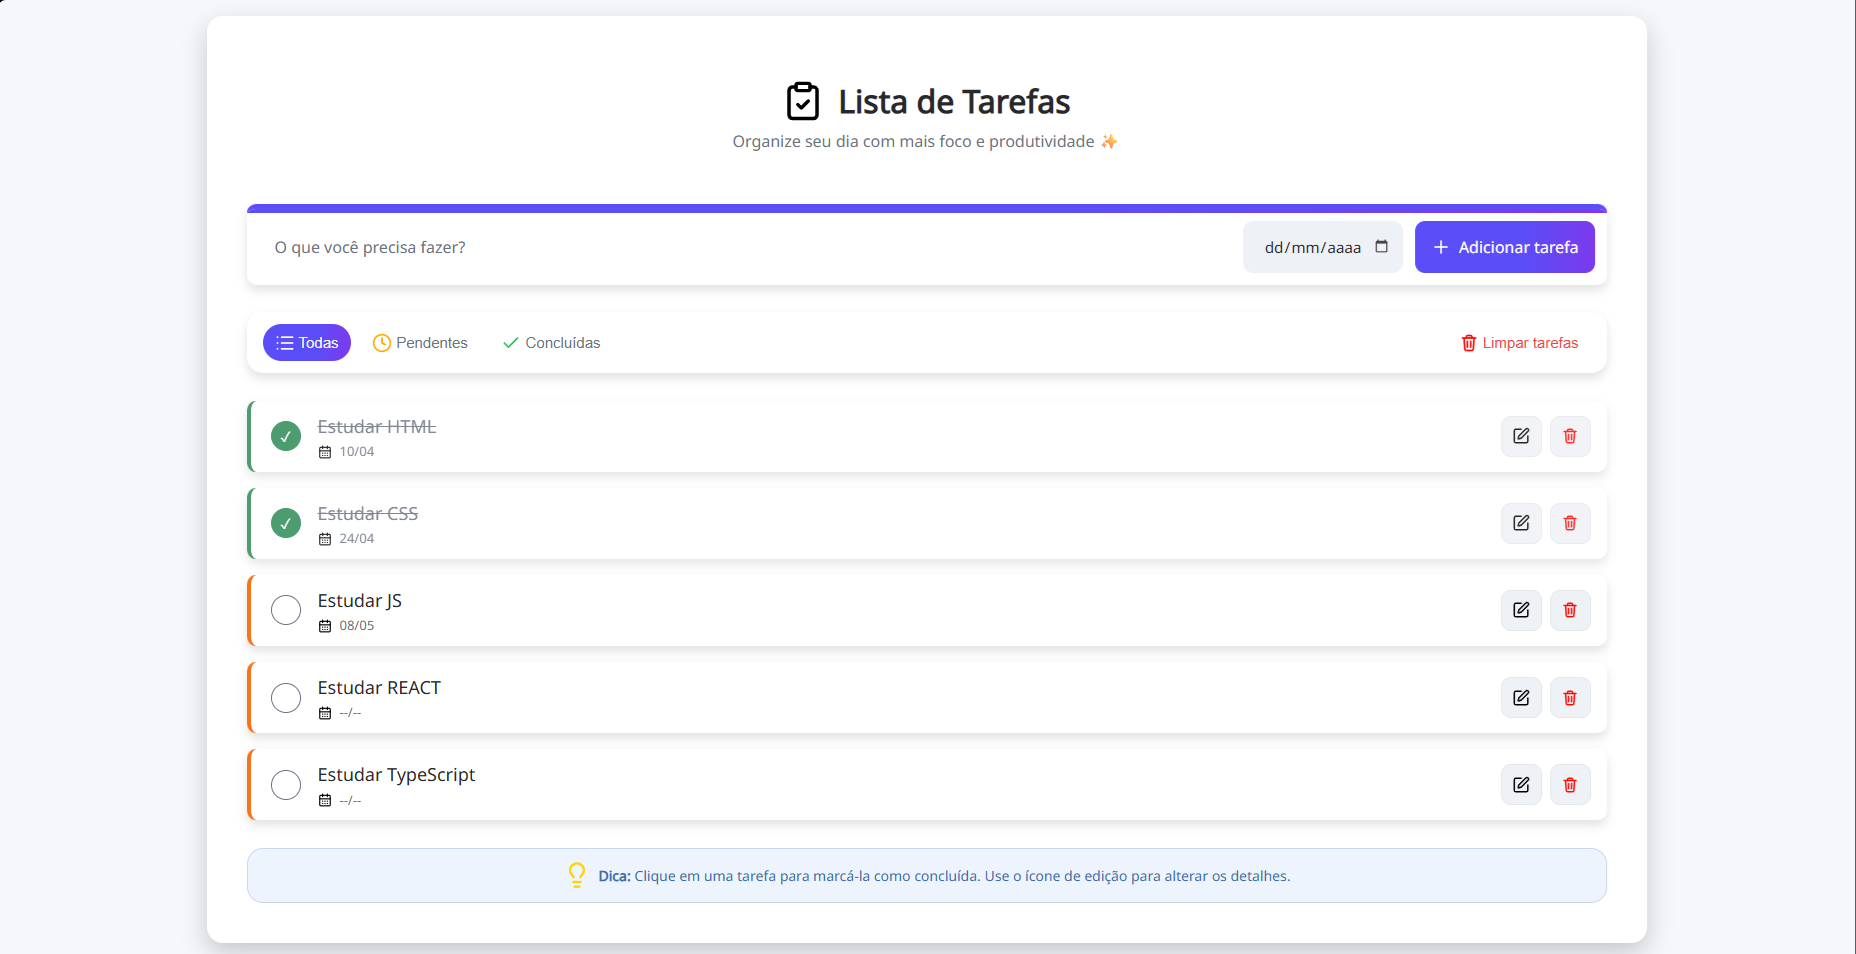
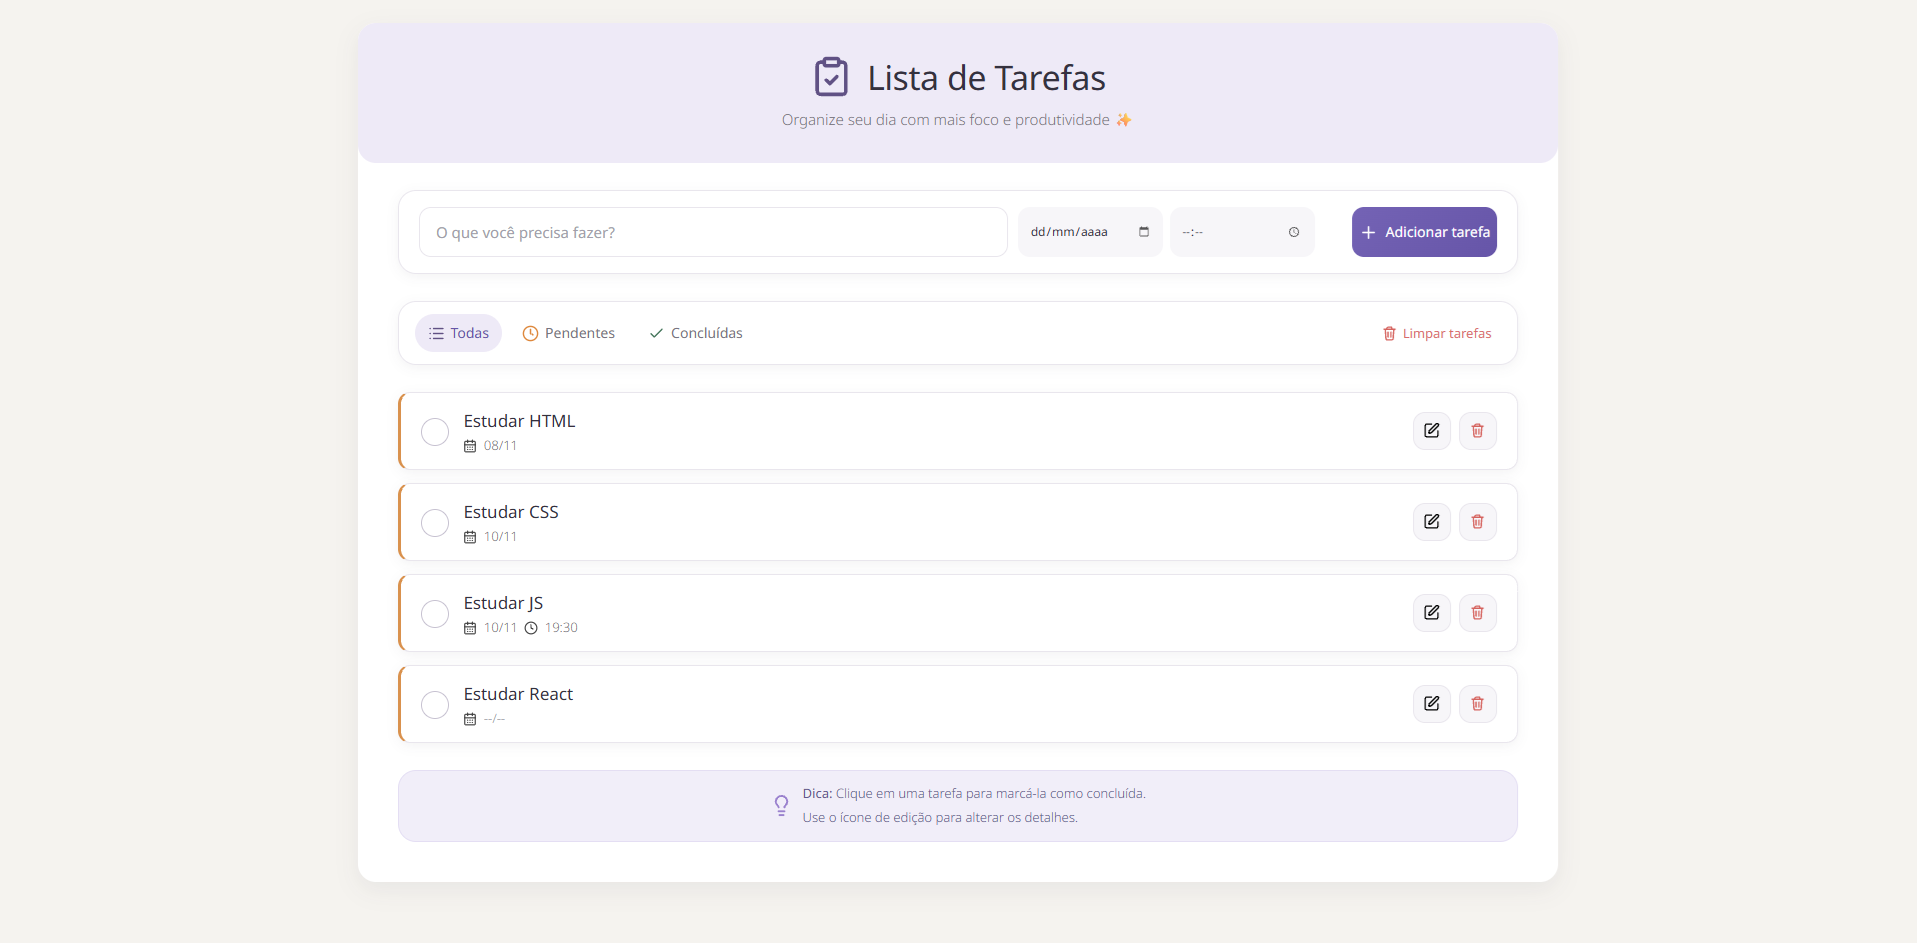
Alterando as imagens do preview para o novo Layout.

diff --git a/README.md b/README.md
@@ -35,11 +35,11 @@
 
 Este projeto foi desenvolvido com o objetivo de:
 
-* Praticar manipulação do DOM com JavaScript
-* Trabalhar com eventos e estado da aplicação
-* Implementar um CRUD completo
-* Aplicar conceitos de responsividade (mobile first)
-* Criar uma interface limpa e funcional
+- Praticar manipulação do DOM com JavaScript
+- Trabalhar com eventos e estado da aplicação
+- Implementar um CRUD completo
+- Aplicar conceitos de responsividade (mobile first)
+- Criar uma interface limpa e funcional
 
 ---
 
@@ -47,49 +47,48 @@ Este projeto foi desenvolvido com o objetivo de:
 
 ### 📝 Tarefas
 
-* Adicionar novas tarefas
-* Editar tarefas existentes (via modal)
-* Excluir tarefas
-* Marcar como concluída ou pendente
+- Adicionar novas tarefas
+- Editar tarefas existentes (via modal)
+- Excluir tarefas
+- Marcar como concluída ou pendente
 
 ### 📅 Data
 
-* Adicionar data opcional à tarefa
-* Editar ou remover data no modal
-* Exibição formatada (dd/mm)
-* Indicador visual quando não há data
+- Adicionar data opcional à tarefa
+- Editar ou remover data no modal
+- Exibição formatada (dd/mm)
+- Indicador visual quando não há data
 
 ### 🔎 Filtros
 
-* Visualizar todas as tarefas
-* Filtrar por tarefas pendentes
-* Filtrar por tarefas concluídas
+- Visualizar todas as tarefas
+- Filtrar por tarefas pendentes
+- Filtrar por tarefas concluídas
 
 ### 🧹 Limpeza
 
-* Remover todas as tarefas com um clique
+- Remover todas as tarefas com um clique
 
 ### 💾 Persistência
 
-* Armazenamento no **LocalStorage**
-* Dados mantidos mesmo após recarregar a página
+- Armazenamento no **LocalStorage**
+- Dados mantidos mesmo após recarregar a página
 
 ### 📱 Responsividade
 
-* Layout adaptado para:
-
-  * Mobile
-  * Tablet
-  * Desktop
+- Layout adaptado para:
+  - Mobile
+  - Tablet
+  - Desktop
 
 ---
 
 ## 🛠 Tecnologias utilizadas
 
-* HTML5
-* CSS3
-* JavaScript (Vanilla JS)
-* LocalStorage API
+- HTML5
+- CSS3
+- JavaScript (Vanilla JS)
+- LocalStorage API
 
 ---
 
@@ -115,13 +114,13 @@ Este projeto foi desenvolvido com o objetivo de:
 
 ## 🧠 Conceitos aplicados
 
-* Manipulação de elementos com `createElement`
-* Controle de estado com variáveis (`currentFilter`, `currentTaskIndex`)
-* Renderização dinâmica da interface
-* Separação de responsabilidades (funções específicas)
-* Uso de `localStorage` para persistência
-* Formatação de dados (datas)
-* Eventos (`click`, `submit`, `change`)
+- Manipulação de elementos com `createElement`
+- Controle de estado com variáveis (`currentFilter`, `currentTaskIndex`)
+- Renderização dinâmica da interface
+- Separação de responsabilidades (funções específicas)
+- Uso de `localStorage` para persistência
+- Formatação de dados (datas)
+- Eventos (`click`, `submit`, `change`)
 
 ---
 
@@ -129,8 +128,8 @@ Este projeto foi desenvolvido com o objetivo de:
 
 Desenvolvido por **Alexsander Galvão**
 
-* GitHub: https://github.com/AlexsanderGS
-* LinkedIn: www.linkedin.com/in/alexsander-galvao
+- GitHub: https://github.com/AlexsanderGS
+- LinkedIn: www.linkedin.com/in/alexsander-galvao
 
 ---
 
